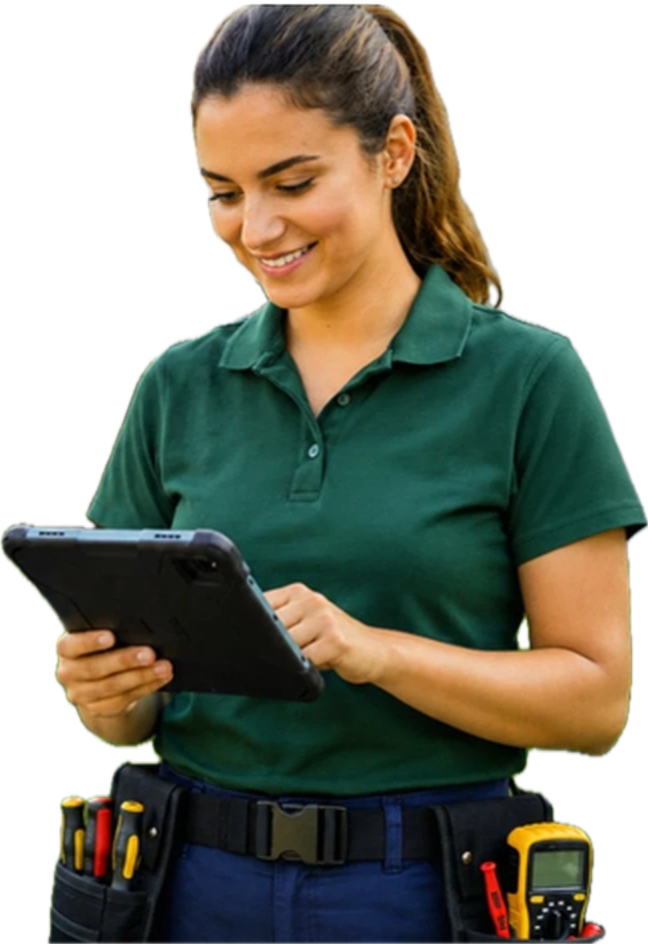
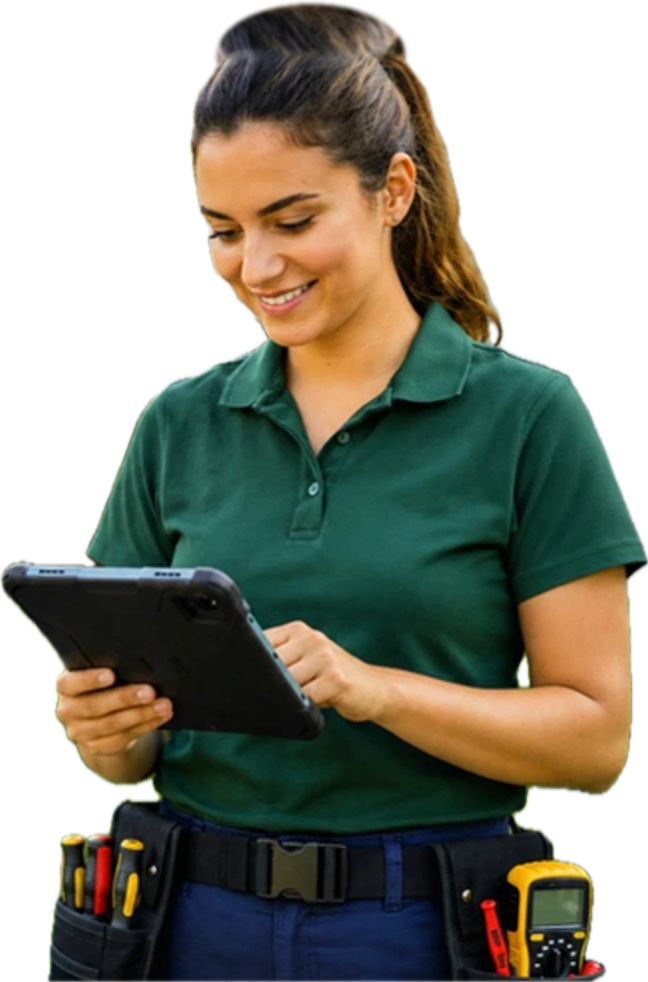
Fix clipped hair on technician cutout

Changed region(s): [[0.0, 0.0, 1.0, 0.9831], [0.6481, 0.4608, 0.8025, 0.5837], [0.3086, 0.8909, 0.3704, 0.9216]]

diff --git a/index.html b/index.html
@@ -175,7 +175,7 @@
 
     <!-- Replace assets/technician-photo.jpg with your own technician image -->
     <div class="tech-status">
-      <img src="assets/technician-cutout.png" alt="Smiling field technician holding a tablet" width="648" height="944">
+      <img src="assets/technician-cutout.png?v=2" alt="Smiling field technician holding a tablet" width="648" height="982">
       <p><svg viewBox="0 0 24 24" aria-hidden="true"><path d="M2 6h12v9H2zM14 9h4l3 3v3h-7"/><circle cx="6" cy="17" r="2"/><circle cx="17" cy="17" r="2"/></svg>Technician en route · 12 min</p>
     </div>
   </div>
